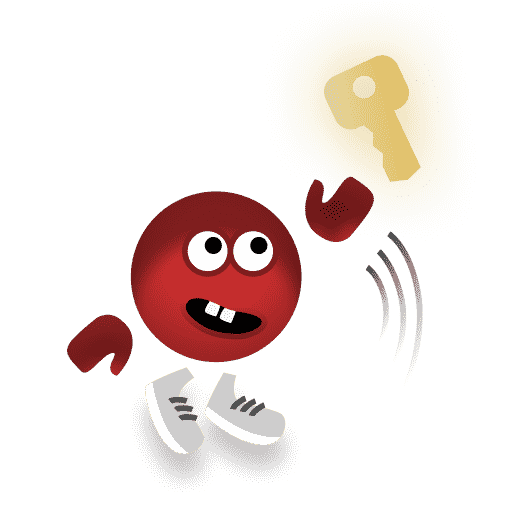
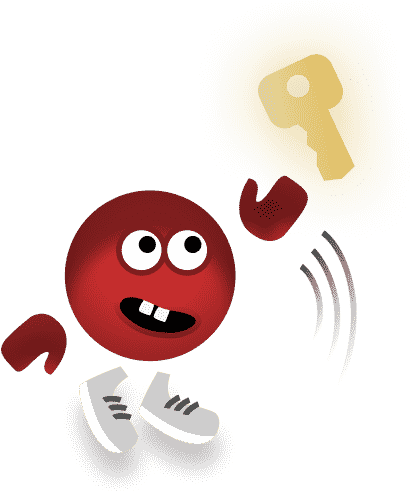
task-166: fix: ресайзить canvas, удалить пустое пространство картинок

Changed region(s): [[0.0, 0.336, 0.761, 1.0], [0.6146, 0.0916, 0.9073, 0.3666], [0.7024, 0.4582, 0.878, 0.7332]]

diff --git a/src/components/GameReactComponent/game-react-component.scss b/src/components/GameReactComponent/game-react-component.scss
@@ -11,6 +11,10 @@
   padding: 4rem 0;
 }
 
+.game-react-component__canvas {
+  max-width: 100%;
+}
+
 .game-react-component__canvas_fullscreen {
   object-fit: contain;
   max-width: 100%;
